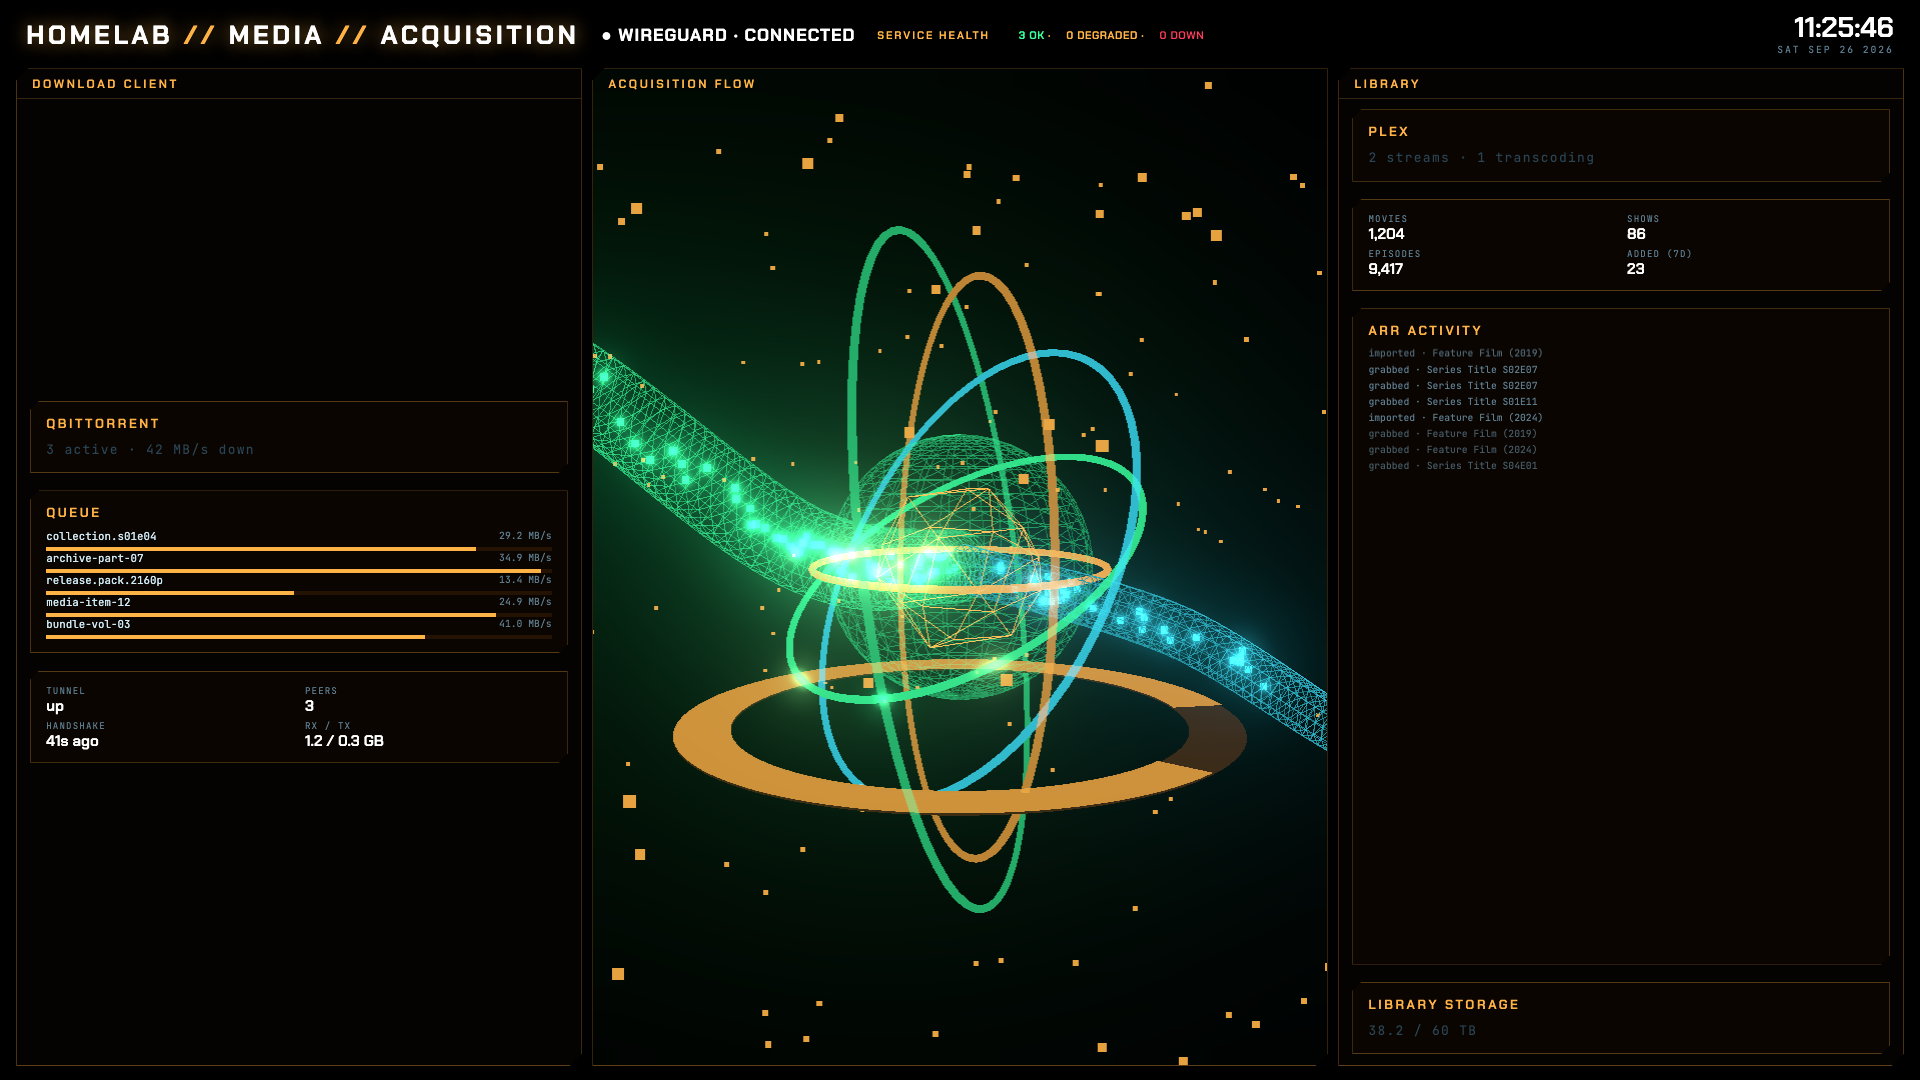
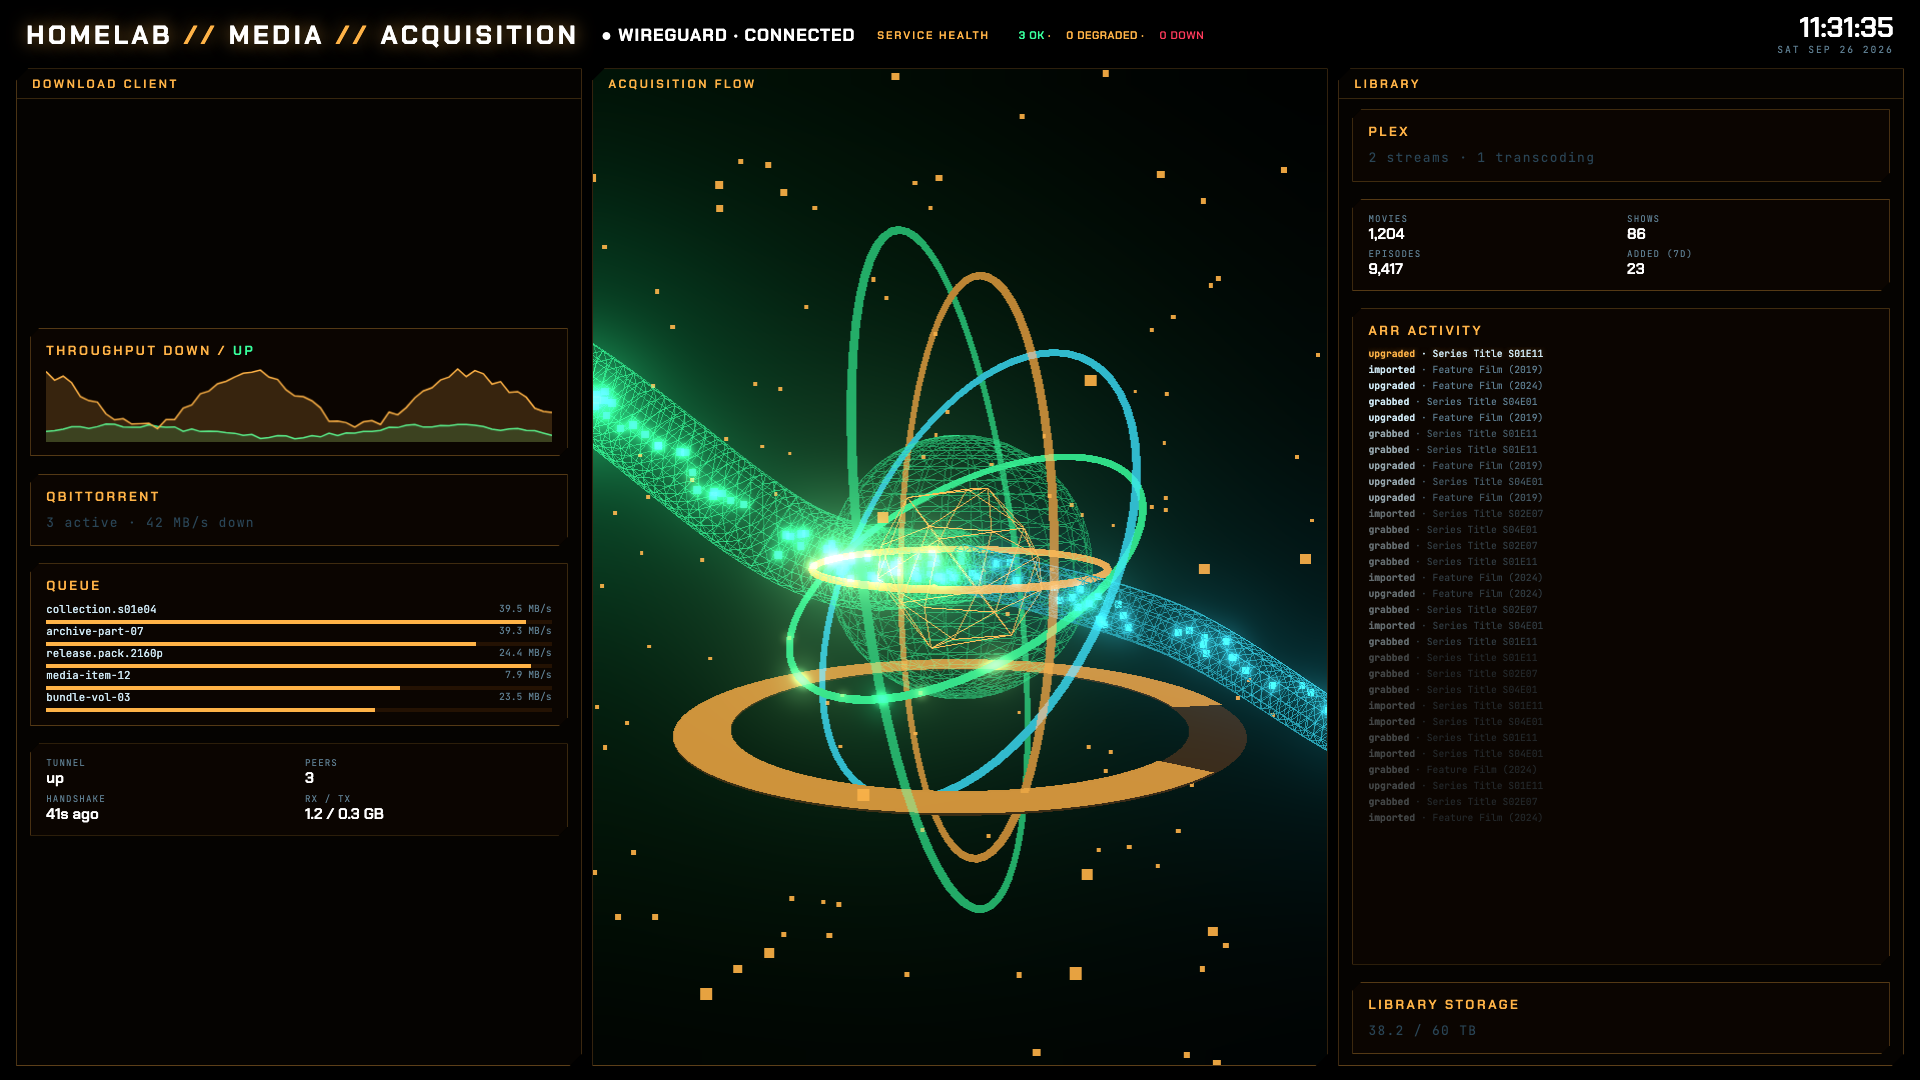
fix(mc4): throughput chart, fuller activity feed
- Adds a down/up throughput area chart (1s cadence, stand-in) filling the
  dead space above the QBITTORRENT card.
- Arr-stack activity feed now seeds and holds enough rows to fill the panel
  height and scrolls continuously; the newest row reads brighter (full ink
  colour, amber action word, brief glow) instead of every row at the same
  dim brightness.
- Confirmed no unused local variable remains in the acquisition/library
  render functions.

Assisted-by: Claude:claude-sonnet-5
Claude-Session: https://claude.ai/code/session_01NMFoeki5AFRtcpDmd74e6T

diff --git a/site/mc4/mc4.js b/site/mc4/mc4.js
@@ -81,33 +81,93 @@ const ARR_ACTIONS = ['grabbed', 'imported', 'upgraded'];
 const ARR_TITLES = ['Series Title S02E07', 'Feature Film (2024)', 'Series Title S04E01', 'Feature Film (2019)', 'Series Title S01E11'];
 let arrTimer = null;
 onDispose(() => { if (arrTimer) clearTimeout(arrTimer); });
+// Cap well above what any panel height needs (the CSS opacity ladder below fades rows past ~15
+// visually) so a tall panel still reads as continuously full rather than running out of rows.
+const ARR_MAX_ROWS = 60;
 function addArrRow(animate) {
   const action = ARR_ACTIONS[Math.floor(Math.random() * ARR_ACTIONS.length)];
   const title = ARR_TITLES[Math.floor(Math.random() * ARR_TITLES.length)];
-  const row = document.createElement('div');
-  row.className = animate ? 'afrow afrow-in' : 'afrow';
-  row.textContent = `${action} · ${title}`;
   const feed = $('arrfeed');
-  if (feed) {
-    feed.prepend(row);
-    while (feed.children.length > 18) feed.lastElementChild.remove();
-  }
+  if (!feed) return;
+  // Only the newest row or two read bright/"live"; demote the previous newest back to normal
+  // brightness as soon as another one arrives, instead of every row staying uniformly bright.
+  feed.querySelectorAll('.afrow-new').forEach((el) => el.classList.remove('afrow-new'));
+  const row = document.createElement('div');
+  row.className = animate ? 'afrow afrow-in afrow-new' : 'afrow';
+  row.innerHTML = `<b>${esc(action)}</b> · ${esc(title)}`;
+  feed.prepend(row);
+  while (feed.children.length > ARR_MAX_ROWS) feed.lastElementChild.remove();
 }
 function scheduleArrFeed() {
   arrTimer = setTimeout(() => {
     arrTimer = null;
     addArrRow(true);
     scheduleArrFeed();
-  }, RM ? 4000 : 1200 + Math.random() * 1800);
+  }, RM ? 4000 : 600 + Math.random() * 900);
 }
+
+// Throughput area chart (down + up), 1s cadence — no download-client exporter exists yet, so
+// this is stand-in like everything else in the panel, but it fills the dead space above the
+// QBITTORRENT card instead of leaving it empty.
+const THROUGHPUT_N = 60;
+const downAt = (t) => clamp(42 + Math.sin(t / 4) * 28 + (Math.random() - 0.5) * 10, 2, 100);
+const upAt = (t) => clamp(9 + Math.sin(t / 6 + 1) * 6 + (Math.random() - 0.5) * 4, 0.5, 30);
+const seedNow = Date.now() / 1000;
+// Seeded across the last THROUGHPUT_N seconds (not a flat 0 baseline) so the chart reads as an
+// established trend on first paint instead of an empty history that only starts filling in live.
+const throughput = {
+  down: Array.from({ length: THROUGHPUT_N }, (_, i) => downAt(seedNow - (THROUGHPUT_N - 1 - i))),
+  up: Array.from({ length: THROUGHPUT_N }, (_, i) => upAt(seedNow - (THROUGHPUT_N - 1 - i))),
+};
+function tickThroughput() {
+  const now = Date.now() / 1000;
+  throughput.down.push(downAt(now));
+  throughput.down.shift();
+  throughput.up.push(upAt(now));
+  throughput.up.shift();
+  drawThroughput();
+}
+function drawThroughput() {
+  const canvas = $('throughSpark');
+  if (!canvas) return;
+  const dpr = Math.min(devicePixelRatio || 1, 2);
+  const w = Math.max(1, Math.round(canvas.clientWidth * dpr)), h = Math.max(1, Math.round(canvas.clientHeight * dpr));
+  if (canvas.width !== w) canvas.width = w;
+  if (canvas.height !== h) canvas.height = h;
+  const c = canvas.getContext('2d');
+  c.clearRect(0, 0, w, h);
+  const max = Math.max(1, ...throughput.down, ...throughput.up);
+  const area = (series, color, fill) => {
+    c.beginPath();
+    series.forEach((v, i) => {
+      const x = (i / (series.length - 1)) * w, y = h - (v / max) * (h - 4 * dpr) - 2 * dpr;
+      i === 0 ? c.moveTo(x, y) : c.lineTo(x, y);
+    });
+    c.lineTo(w, h); c.lineTo(0, h); c.closePath();
+    c.fillStyle = fill; c.fill();
+    c.beginPath();
+    series.forEach((v, i) => {
+      const x = (i / (series.length - 1)) * w, y = h - (v / max) * (h - 4 * dpr) - 2 * dpr;
+      i === 0 ? c.moveTo(x, y) : c.lineTo(x, y);
+    });
+    c.strokeStyle = color; c.lineWidth = 1.5 * dpr; c.stroke();
+  };
+  area(throughput.up, '#38ff9c', 'rgba(56,255,156,.15)');
+  area(throughput.down, '#ffb347', 'rgba(255,179,71,.18)');
+}
+let throughputId = null;
 
 function renderAcqPanel() {
   const [qbit] = SAMPLE_ACQ_CARDS;
-  $('acqbody').innerHTML = card(qbit.title, qbit.note)
+  $('acqbody').innerHTML = `<div class="card"><div class="ct">Throughput <span style="color:var(--amber)">down</span> / <span style="color:var(--green)">up</span></div><canvas id="throughSpark" class="through"></canvas></div>`
+    + card(qbit.title, qbit.note)
     + `<div class="card"><div class="ct">Queue</div><div id="queuerows"></div></div>`
     + statgrid([['tunnel', 'up'], ['peers', '3'], ['handshake', '41s ago'], ['rx / tx', '1.2 / 0.3 GB']]);
   renderQueue();
+  tickThroughput();
+  if (!throughputId) throughputId = setInterval(tickThroughput, 1000);
 }
+onDispose(() => { if (throughputId) clearInterval(throughputId); });
 function renderPipePanel() {
   const [plex, , storage] = SAMPLE_LIBRARY_CARDS;
   $('pipebody').innerHTML = card(plex.title, plex.note)
@@ -117,7 +177,7 @@ function renderPipePanel() {
 }
 renderAcqPanel();
 renderPipePanel();
-for (let i = 0; i < 6; i += 1) addArrRow(false); // seed so the feed isn't empty on first paint
+for (let i = 0; i < 26; i += 1) addArrRow(false); // seed so the feed fills the panel on first paint
 scheduleArrFeed();
 setState($('acq'), 'ok', '');
 setState($('pipe'), 'ok', '');

diff --git a/site/mc4/mc4.css b/site/mc4/mc4.css
@@ -60,5 +60,11 @@ header{grid-column:1/-1;position:relative;z-index:1;display:flex;align-items:cen
 .afrow b{color:var(--ink);font-weight:600}
 .afrow:nth-child(n+6){opacity:.7}
 .afrow:nth-child(n+11){opacity:.45}
+.afrow:nth-child(n+20){opacity:.28}
+/* The newest row (or two, briefly overlapping during the insert animation) reads brighter/live —
+   full ink colour plus an amber glow — instead of every row sitting at the same dim brightness. */
+.afrow-new{color:var(--ink);text-shadow:0 0 6px rgba(255,179,71,.35)}
+.afrow-new b{color:var(--amber)}
 .afrow-in{animation:afrow-in .35s ease-out}
+.through{width:100%;height:clamp(48px,7vh,84px);display:block}
 @keyframes afrow-in{from{opacity:0;transform:translateY(-4px)}to{opacity:1;transform:none}}
